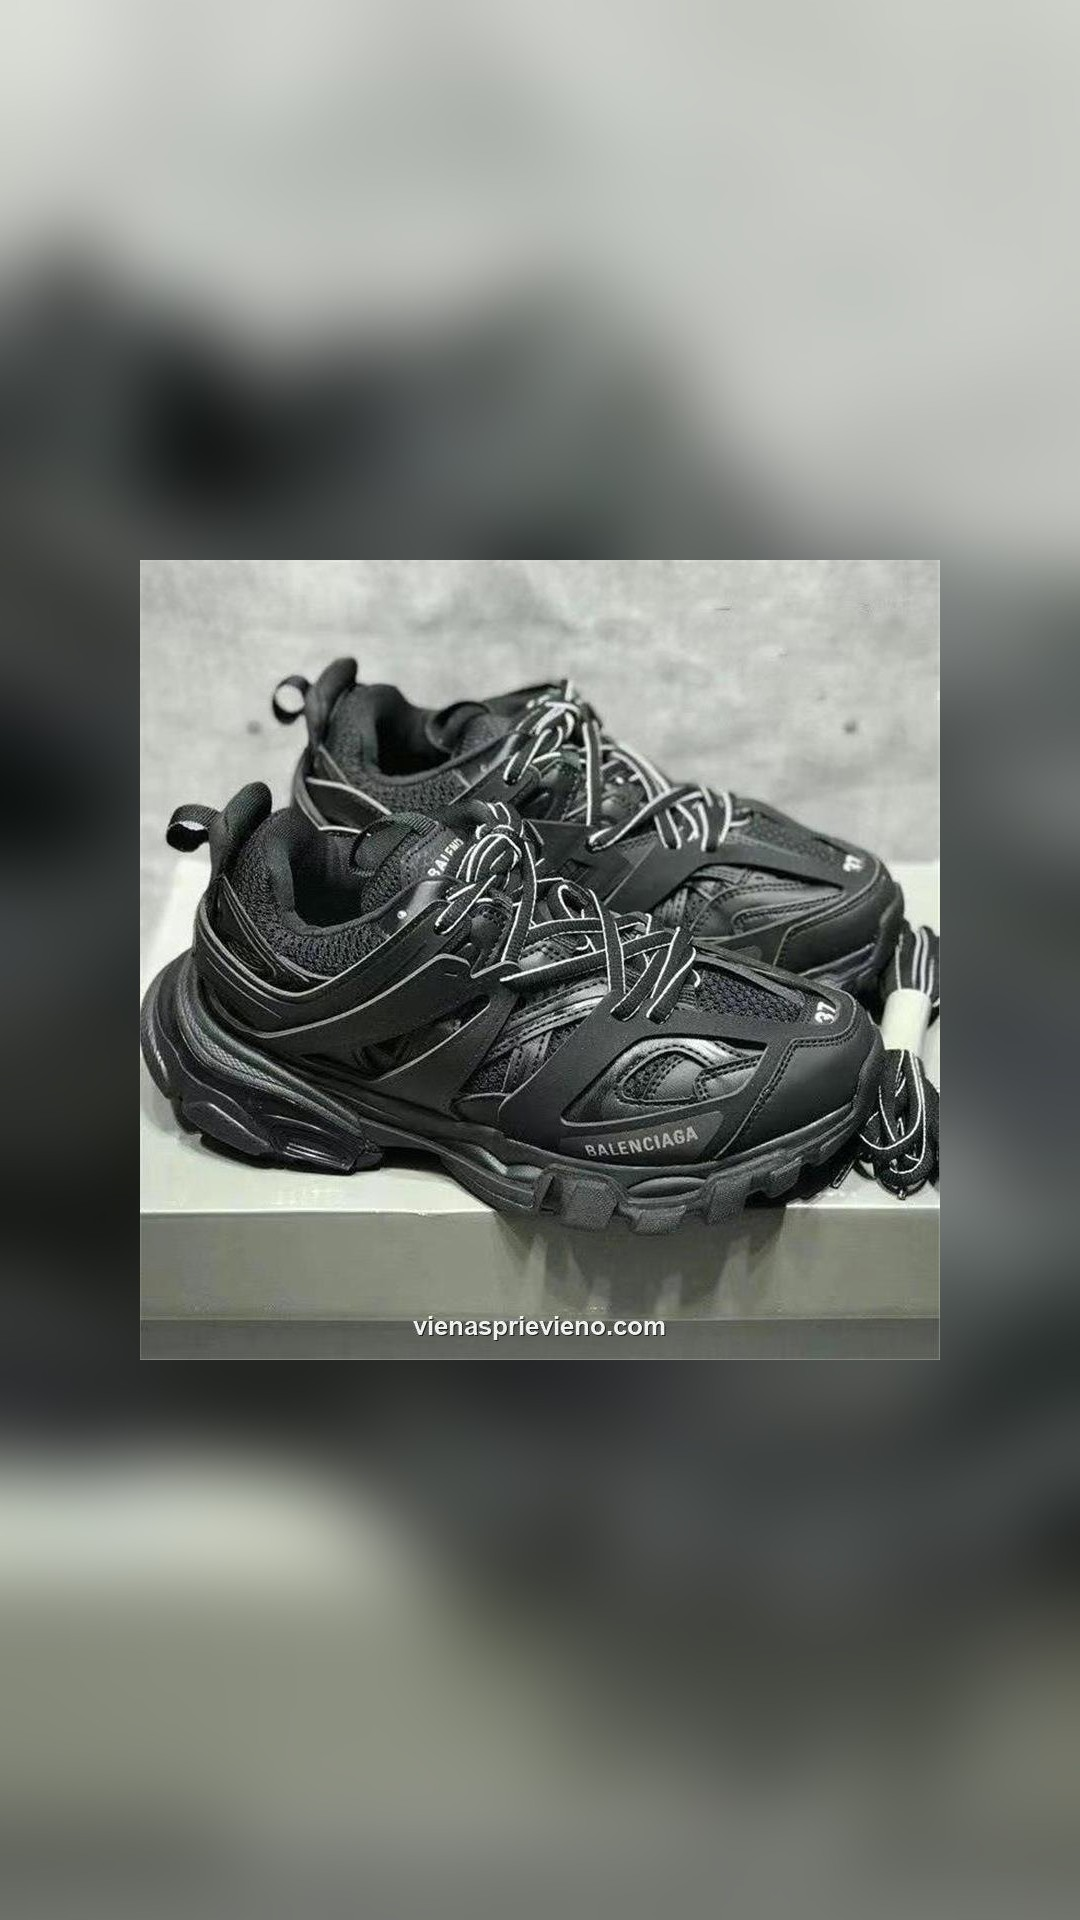
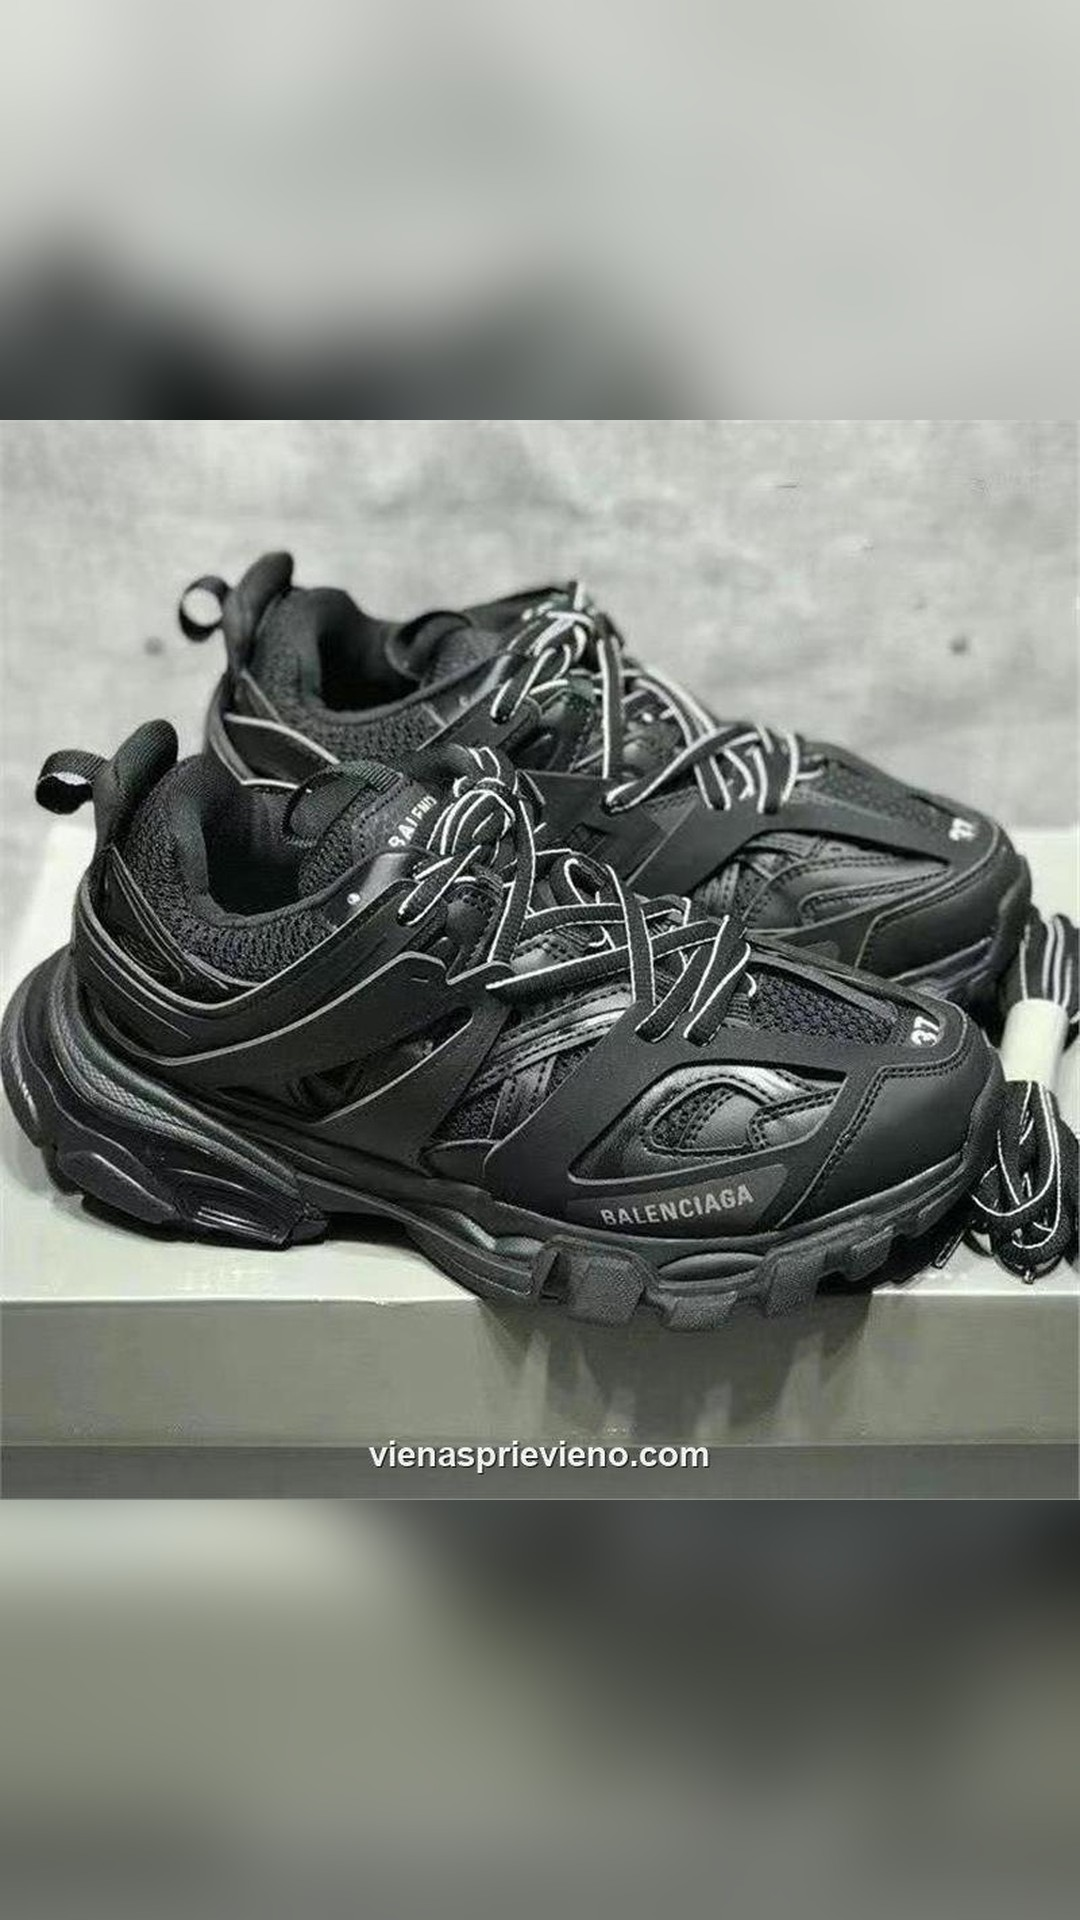
Fix: upscale small images to fill story frame; add cover fill mode
prepare_images.py now scales the foreground up (not just down) so small
source images fill the full width instead of sitting tiny in the middle.
Adds IMAGE_FILL_MODE=cover to fill the whole frame edge-to-edge (crops).

diff --git a/prepare_images.py b/prepare_images.py
@@ -10,6 +10,7 @@ Paleidziama automatiskai per GitHub Actions; gali paleisti ir lokaliai:
     python prepare_images.py
 """
 
+import os
 import pathlib
 
 from PIL import Image, ImageOps, ImageFilter
@@ -17,6 +18,10 @@ from PIL import Image, ImageOps, ImageFilter
 TARGET_W, TARGET_H = 1080, 1920   # Instagram/Facebook story drobe (9:16)
 BLUR_RADIUS = 40
 EXTS = {".jpg", ".jpeg", ".png"}
+
+# contain = visas vaizdas matosi (didinamas) + sulietas fonas uzpildo likuti
+# cover   = nuotrauka uzpildo VISA rema iki krastu (perteklius apkarpomas, be fono)
+FILL_MODE = os.environ.get("IMAGE_FILL_MODE", "contain").lower()
 
 ROOT = pathlib.Path(__file__).parent
 SRC_DIR = ROOT / "source"
@@ -27,16 +32,22 @@ def make_story(img: Image.Image) -> Image.Image:
     """Sukuria 1080x1920 story is bet kokio formato paveikslelio."""
     img = img.convert("RGB")
 
-    # Fonas: uzdengia visa drobe (cover, su apkarpymu) + suliejimas
+    # cover: nuotrauka uzpildo visa rema iki krastu (perteklius apkarpomas)
+    if FILL_MODE == "cover":
+        return ImageOps.fit(img, (TARGET_W, TARGET_H), method=Image.LANCZOS)
+
+    # contain: sulietas fonas + visas vaizdas, DIDINAMAS kad uzpildytu kuo daugiau
     bg = ImageOps.fit(img, (TARGET_W, TARGET_H), method=Image.LANCZOS)
     bg = bg.filter(ImageFilter.GaussianBlur(BLUR_RADIUS))
 
-    # Pirmas planas: visas vaizdas itelpa i drobe (contain), be apkarpymo
-    fg = img.copy()
-    fg.thumbnail((TARGET_W, TARGET_H), Image.LANCZOS)
+    # Mastelis: itelpa i drobe (be apkarpymo), bet ir DIDINA mazas nuotraukas
+    scale = min(TARGET_W / img.width, TARGET_H / img.height)
+    new_w = max(1, round(img.width * scale))
+    new_h = max(1, round(img.height * scale))
+    fg = img.resize((new_w, new_h), Image.LANCZOS)
 
-    x = (TARGET_W - fg.width) // 2
-    y = (TARGET_H - fg.height) // 2
+    x = (TARGET_W - new_w) // 2
+    y = (TARGET_H - new_h) // 2
     bg.paste(fg, (x, y))
     return bg
 
